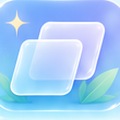
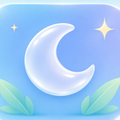
하루: 달빛 「테마」 아이콘을 루에 초승달 낱장으로 교체(테두리·잡티 잘라냄)
Claude-Session: https://claude.ai/code/session_01YMNPZCviXGYp42DjssSfVm

diff --git a/haru/index.html b/haru/index.html
@@ -11,7 +11,7 @@
 <meta name="apple-mobile-web-app-title" content="하루">
 <link rel="apple-touch-icon" href="apple-touch-icon.png?v=3">
 <script>try{var t=localStorage.getItem('haru-look');if(t==='green'||t==='moon')document.documentElement.dataset.theme=t;}catch(_){}if(navigator.standalone||matchMedia('(display-mode: standalone)').matches)document.documentElement.classList.add('haru-sa');</script>
-<link rel="stylesheet" href="styles.css?v=41">
+<link rel="stylesheet" href="styles.css?v=42">
 </head>
 <body>
 <div class="bg" aria-hidden="true"></div>
